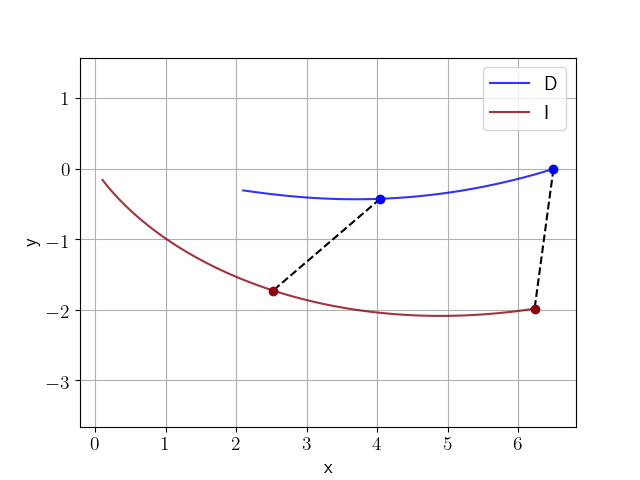
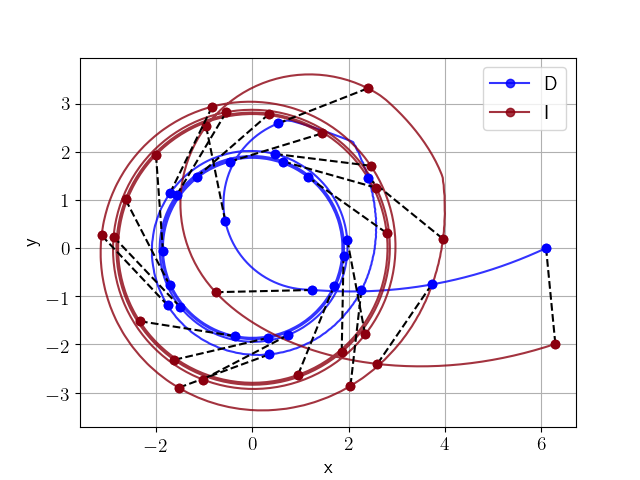
one more plot for the paper

diff --git a/opttraj.py b/opttraj.py
@@ -1,0 +1,64 @@
+from envelope import *
+from overall_plot import triag_cnstr_3, triag_cnstr_2, triag_cnstr_1, plot_bds, plot_orbit
+
+
+
+
+if __name__ == '__main__':
+
+	r1, r2 = 6.1, 6.6 # dwin
+
+
+	traj, ss, phis, rrs, ts = envelope_barrier(r1, r2)
+
+	print(ss[105])
+
+
+	N = 70
+	dts = ts[N:105] - ts[N]
+	print(dts)
+	T = 1.1
+	x1 = np.asarray(traj[N:105, 0])
+	y1 = np.asarray(traj[N:105, 1])
+	xi = np.asarray(traj[N:105, 2])
+	yi = np.asarray(traj[N:105, 3])
+
+	R = np.sqrt(xi[-1]**2 + yi[-1]**2)
+	xt = np.array([R*cos(beta) for beta in np.linspace(0, 2*pi, 50)])
+	yt = np.array([R*sin(beta) for beta in np.linspace(0, 2*pi, 50)])
+
+	tht2 = atan2(yi[-2] - yi[-1], xi[-2] - xi[-1]) - acos(1/1.5)
+	x2 = np.array([2+dts[-1] + T] + [2+dt for dt in dts[::-1]])*cos(tht2) + xi[-1]
+	y2 = np.array([2+dts[-1] + T] + [2+dt for dt in dts[::-1]])*sin(tht2) + yi[-1]
+
+	tht1 = atan2(y1[0] - y1[1], x1[0] - x1[1])
+	x1 = np.concatenate((np.array([T*cos(tht1)+x1[0]]), x1))
+	y1 = np.concatenate((np.array([T*sin(tht1)+y1[0]]), y1))
+
+	thti = atan2(yi[0] - yi[1], xi[0] - xi[1])
+	xi = np.concatenate((np.array([T*cos(thti)+xi[0]]), xi))
+	yi = np.concatenate((np.array([T*sin(thti)+yi[0]]), yi))
+
+	fig, ax = plt.subplots()
+	ax.plot(x1, y1, 'b', alpha=0.8, marker='o', markevery=20, label='D')
+	ax.plot(x2, y2, 'b', alpha=0.8, marker='o', markevery=20, label=None)
+	ax.plot(xi, yi, color='xkcd:crimson', marker='o', markevery=20, alpha=0.8, label='I')
+	for i, (x1_, y1_, x2_, y2_, xi_, yi_) in enumerate(zip(x1, y1, x2, y2, xi, yi)):
+		if i%20 == 0:
+			ax.plot([xi_, x1_], [yi_, y1_], 'k--')
+			ax.plot([xi_, x2_], [yi_, y2_], 'k--')
+		if i == len(xi)-1:
+			ax.plot([xi_, x1_], [yi_, y1_], 'k--')
+			ax.plot([xi_, x2_], [yi_, y2_], 'k--')
+			ax.plot(x1_, y1_, 'o', color='b')
+			ax.plot(x2_, y2_, 'o', color='b')
+			ax.plot(xi_, yi_, 'o', color='xkcd:crimson')
+	ax.plot(xt, yt, 'r', label='Target')
+
+	plt.xlabel('x', fontsize=14)
+	plt.ylabel('y', fontsize=14)
+	ax.grid()
+	ax.axis('equal')
+	ax.legend(fontsize=14)
+	plt.savefig('traj.png')
+	plt.show()

diff --git a/one_plot.py b/one_plot.py
@@ -7,20 +7,20 @@ import matplotlib.tri as tri
 
 if __name__ == '__main__':
 
-	r1, r2 = 6.5, 6.54 # barrier
+	# r1, r2 = 6.5, 6.54 # barrier
 	# resfig = [0, 15, 65, 89]
 	# r1, r2 = 6.5, 6.1 # iwin
 	# resfig = [0, 20, 50, 56]
 	# resfig = [0, 50, 90, 105, 110, 195, 210, 230, 240, 1200]
-	# r1, r2 = 6.1, 6.6 # dwin
+	r1, r2 = 6.1, 6.6 # dwin
 	# resfig = [0, 50, 90, 105, 110, 195, 210, 230, 240, 1200]
 
 
 	traj, ss, phis, rrs, ts = envelope_barrier(r1, r2)
 
 	fig, ax = plt.subplots()
-	ax.plot(traj[:,0], traj[:,1], 'b', alpha=0.8)
-	ax.plot(traj[:,2], traj[:,3], color='xkcd:crimson', alpha=0.8)
+	ax.plot(traj[:,0], traj[:,1], 'b', alpha=0.8, marker='o', markevery=50)
+	ax.plot(traj[:,2], traj[:,3], color='xkcd:crimson', marker='o', alpha=0.8, markevery=50)
 	for i, x in enumerate(traj):
 		if i%50 == 0:
 			ax.plot([x[0], x[2]], [x[1], x[3]], 'k--')
@@ -39,7 +39,7 @@ if __name__ == '__main__':
 	fig, ax = plt.subplots()
 	ax.plot(ts, np.asarray(phis)*180/pi, 'b.-', markevery=5)
 	plt.xlabel('time', fontsize=14)
-	plt.ylabel(r'$\phi(^\circ)$', fontsize=14)
+	plt.ylabel(r'$\phi_D^\ast(^\circ)$', fontsize=14)
 	ax.grid()
 	plt.show()
 
@@ -61,14 +61,15 @@ if __name__ == '__main__':
 	# plt.show()
 
 	########################## vecgram ###########################
-	k = 0
-	for i, s in enumerate(ss):
-		# print(i)
-		if i in [0, 15, 65, 89]:
-			print(k)
-			print(i)
-		# if i in resfig:
-			draw_vecgram(s[0], s[2], i, k)
-			k = k+1
-			# time.sleep(.1)
-	plt.show()
+	# k = 0
+	# for i, s in enumerate(ss):
+	# 	# print(i)
+	# 	# if i in [0, 15, 65, 89]:
+	# 	# 	print(k)
+	# 	# 	print(i)
+	# 	if i%10 == 0:
+	# 	# if i in resfig:
+	# 		draw_vecgram(s[0], s[2], i, k)
+	# 		k = k+1
+	# 		# time.sleep(.1)
+	# plt.show()
